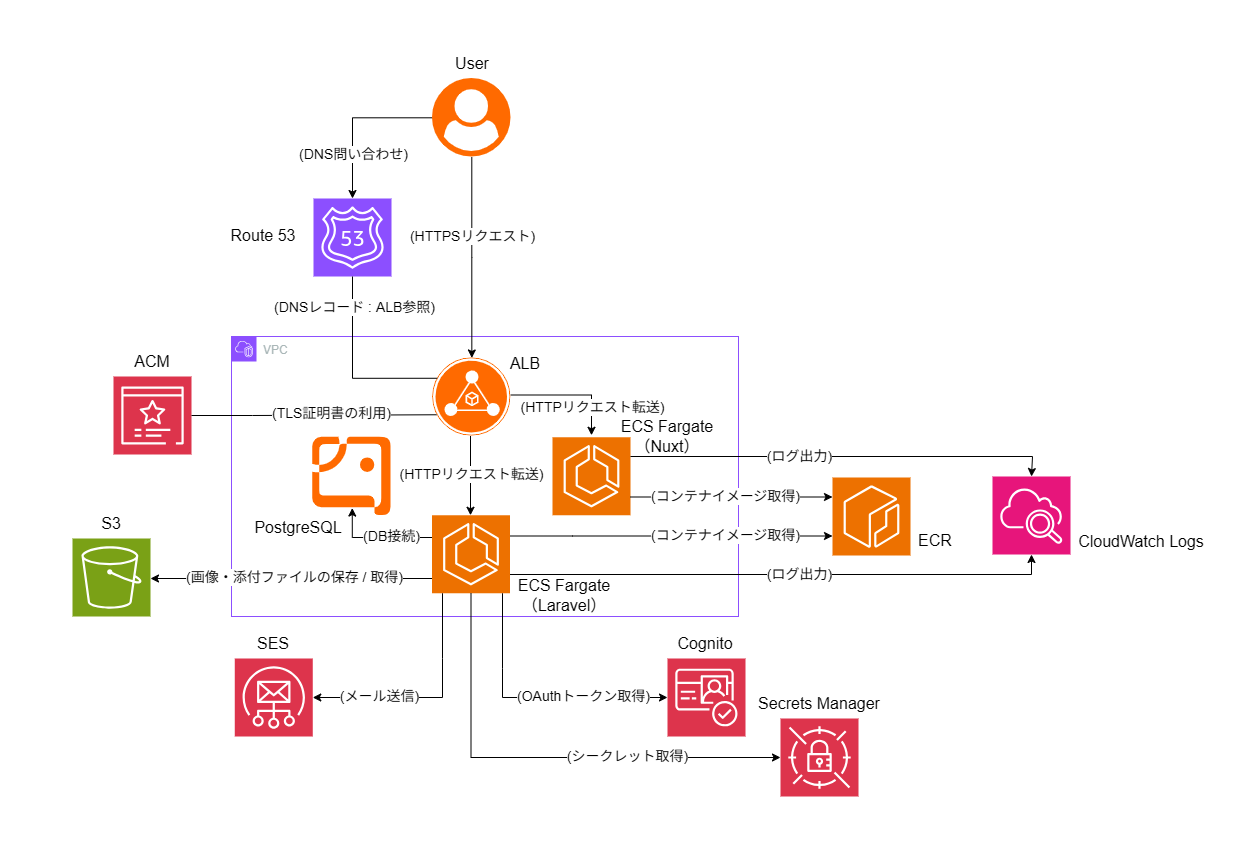
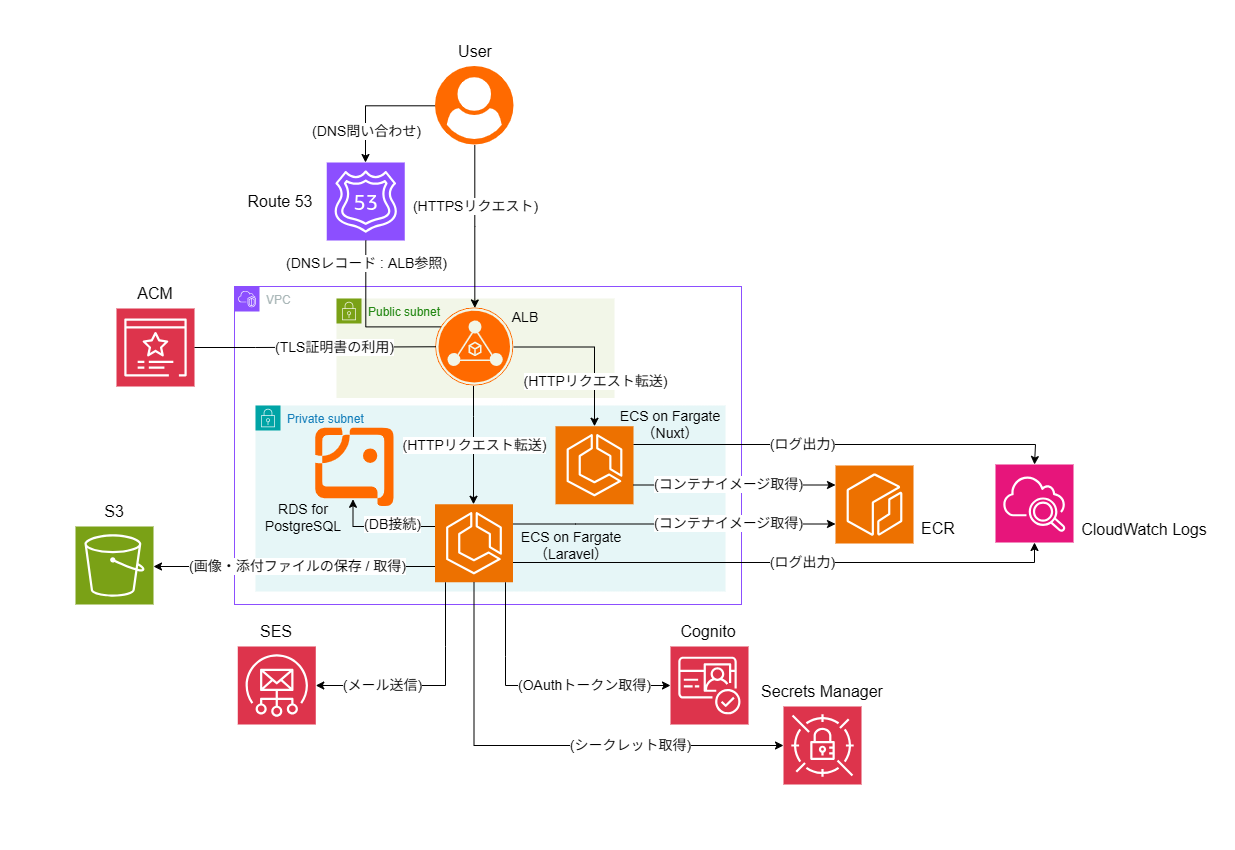
最終版

Changed region(s): [[0.0308, 0.0612, 0.9846, 0.9482]]

diff --git a/app/data/site.ts b/app/data/site.ts
@@ -10,7 +10,7 @@ export type DesignPoint = {
 
 export type SecurityRow = {
   category: string
-  implementation: string
+  implementations: string[]
 }
 
 export type StackRow = {
@@ -37,13 +37,19 @@ export type ExperienceGroup = {
 
 export const basicInfoRows: InfoRow[] = [
   { label: '名前', value: 'Ninomiya' },
-  { label: '志望職種', value: 'クラウド領域のITコンサル' },
-  { label: '目指すキャリア', value: 'クラウド技術と業務理解の両面から顧客の課題を捉え、要件整理・技術選定・設計・導入まで一貫して支援できるITコンサルタントを目指しています。' },
+  { label: '志望職種', value: 'クラウド領域の IT コンサル' },
+  {
+    label:
+      '目指すキャリア',
+    value:
+      `クラウド技術と業務理解の両面から顧客の課題を捉え、
+      要件整理・技術選定・設計・導入まで一貫して支援できる IT コンサルタントを目指しています。`
+  },
   { label: '学習中の資格', value: 'AWS Certified Solutions Architect - Professional（SAP）' },
 ]
 
 export const introductionParagraphs: string[] = [
-  'Laravel・Vue.js・Nuxt を用いた Web アプリケーション開発に携わってきました。業務では、AWS サービスを活用した非同期処理やAI機能、リアルタイム通知などの実装を経験しています。また、個人開発では AWS 環境の構築からアプリケーションのデプロイまで一貫して取り組み、Terraform によるインフラの IaC 化や GitHub Actions を用いた CI / CD パイプラインの構築も行いました。',
+  'Laravel・Vue.js・Nuxt を用いた Web アプリケーション開発に携わってきました。業務では、AWS サービスを活用した非同期処理や AI 機能、リアルタイム通知などの実装を経験しています。また、個人開発では AWS 環境の構築からアプリケーションのデプロイまで一貫して取り組み、Terraform によるインフラの IaC 化や GitHub Actions を用いた CI / CD パイプラインの構築も行いました。',
   'こうした経験に加え、AWS 認定資格の学習を通じて、システムの要件に応じたクラウドサービスの選定やアーキテクチャ設計に関心を深め、クラウド技術を専門領域にしたいと考えるようになりました。',
   '今後は、クラウド技術に関する専門性を高めるとともに、顧客の課題や要件を理解し、技術的な観点から最適な解決策を提案・実現できる IT コンサルタントを目指しています。',
 ]
@@ -133,11 +139,11 @@ export const projects: Project[] = [
     name: 'WorkMana',
     summary: [
       'WorkManaは、チーム単位でタスクや資料を一元管理するWebアプリケーションです。',
-      'ボード形式とWBS形式を切り替えながら、タスクの進捗を管理できます。',
+      'Board 形式と WBS 形式を切り替えながら、タスクの進捗を管理できます。',
     ],
     overview: [
       'WorkManaは、スペース単位でタスクや資料を一元管理するWebアプリケーションです。ユーザーが作成した組織内にスペースを設けて業務を管理します。',
-      'スペースでは、タスクをカンバン形式のボードと、階層構造で表示するWBSの２つのビューで扱えます。WBSではガントチャートも表示でき、タスクの構造とスケジュールを確認できます。タスクの情報は両方のビューで共有されるため、表示を切り替えても同じタスクを編集できます。',
+      'スペースでは、タスクをカンバン形式の Board と、階層構造で表示する WBS の２つのビューで扱えます。WBS ではガントチャートも表示でき、タスクの構造とスケジュールを確認できます。タスクの情報は両方のビューで共有されるため、表示を切り替えても同じタスクを編集できます。',
       'また、タスクには担当者、ラベル、期間、工数、進捗率などを設定でき、チェックリストやファイル添付にも対応しています。スペースには資料を作成でき、業務管理に必要な情報をまとめて管理できます。',
       '組織内では管理者と一般ユーザーの役割を設け、組織設定やユーザー管理などの操作を管理者に限定しています。さらに、同じスペースを開いているユーザーの画面にタスクや資料の変更をリアルタイムに反映する仕組みや、担当者追加や期間変更などを知らせる通知機能を備えています。',
     ],
@@ -222,7 +228,7 @@ export const projects: Project[] = [
     stackRows: [
       { category: 'フロントエンド', technologies: 'Nuxt 4 / Vue 3 / TypeScript / SCSS' },
       { category: 'バックエンド', technologies: 'Laravel 13 / PHP 8.3' },
-      { category: 'データベース', technologies: 'PostgreSQL / Amazon RDS for PostgreSQL' },
+      { category: 'データベース', technologies: 'Amazon RDS for PostgreSQL' },
       { category: '認証', technologies: 'Amazon Cognito' },
       { category: 'リアルタイム同期', technologies: 'Laravel Reverb / Laravel Echo / Pusher JS' },
       { category: '実行環境', technologies: 'Node.js 22 / nginx / PHP-FPM' },
@@ -261,9 +267,9 @@ export const projects: Project[] = [
           {
             content:
               `ALB で HTTPS 通信を受け付け、
-              HTTP 通信を HTTPS にリダイレクト`,
+              HTTP 通信は HTTPS にリダイレクト`,
             reason: 
-              `通信を暗号化することで
+              `通信を暗号化して
               安全にアプリケーションへアクセスできるようにするため`,
           },
         ],
@@ -305,8 +311,8 @@ export const projects: Project[] = [
           {
             content: `S3 による画像・添付ファイルの管理`,
             reason: 
-              `アプリケーションのデータベースとファイルを
-              分離して管理するため`,
+              `画像および添付ファイルを
+              データベースとは分離して管理するため`,
           },
         ],
       },
@@ -331,7 +337,9 @@ export const projects: Project[] = [
         item: 'セキュリティ',
         rows: [
           {
-            content: 'HTTPS 通信による通信経路の暗号化',
+            content: 
+              `HTTPS 通信による
+              インターネット経由の通信暗号化`,
             reason: '通信内容の盗聴や改ざんを防ぐため',
           },
           {
@@ -339,8 +347,8 @@ export const projects: Project[] = [
               `IAM ロールによる
               AWS リソースへのアクセス制御`,
             reason: 
-              `AWS リソースへのアクセス権限を
-              必要最小限に制限するため`,
+              `必要な AWS リソースへのアクセス権限を付与して
+              認証情報を直接管理する必要をなくすため`,
           },
           {
             content: `Secrets Manager によるシークレット管理`,
@@ -361,11 +369,9 @@ export const projects: Project[] = [
         rows: [
           {
             content: 
-              `Laravel Reverb による
-              WebSocket 通信`,
+              `Laravel Reverb による WebSocket 通信`,
             reason: 
-              `ユーザー間でタスクなどの更新情報を
-              リアルタイムに共有するため`,
+              `ユーザー間で更新情報をリアルタイムに共有するため`,
           },
         ],
       },
@@ -410,7 +416,7 @@ export const projects: Project[] = [
           {
             content: 'S3 のバージョニング',
             reason: 
-              `ファイルの上書き・削除が発生した場合に
+              `画像および添付ファイルの上書き・削除が発生した場合に
               過去のバージョンを復元できるようにするため`,
           },
         ],
@@ -419,34 +425,38 @@ export const projects: Project[] = [
     securityRows: [
       {
         category: '認証・セッション管理',
-        implementation: 
-          `● Amazon Cognito によるユーザー認証
-          ● Authorization Code Flow with PKCE による認証フローの保護
-          ● ID トークンの署名・クレーム検証
-          ● HttpOnly Cookie を利用したセッション管理
-          ● ログアウト時のトークン・セッション無効化`
+        implementations: [
+          'Amazon Cognito によるユーザー認証',
+          'Authorization Code Flow with PKCE による認証フローの保護',
+          'ID トークンの署名・クレーム検証',
+          'HttpOnly Cookie を利用したセッション管理',
+          'ログアウト時のトークン・セッション無効化',
+        ],
       },
       {
         category: '認可・マルチテナント分離',
-        implementation: 
-          `● 組織への所属確認に基づくアクセス制御
-          ● 組織およびスペース単位でのリソースアクセス制御
-          ● 担当者・ラベル・親子タスクなどの関連データの整合性検証
-          ● 管理操作に対する権限確認`
+        implementations: [
+          '組織への所属確認に基づくアクセス制御',
+          '組織およびスペース単位でのリソースアクセス制御',
+          '担当者・ラベル・親子タスクなどの関連データの整合性検証',
+          '管理操作に対する権限確認',
+        ],
       },
       {
         category: '通信・本番設定の保護',
-        implementation: 
-          `● HTTPS・Cookie・CORS などの本番環境向け設定の検証
-          ● 本番環境での認証バイパス無効化チェック`
+        implementations: [
+          'HTTPS・Cookie・CORS などの本番環境向け設定の検証',
+          '本番環境での認証バイパス無効化チェック',
+        ],
       },
       {
         category: 'ファイル保護',
-        implementation:
-          `● Amazon S3 でのファイル保存
-          ● アクセス権限の検証
-          ● アップロード時のファイルサイズ・拡張子の制限
-          ● ダウンロード時のレスポンスヘッダーによる保護`
+        implementations: [
+          'Amazon S3 でのファイル保存',
+          'アクセス権限の検証',
+          'アップロード時のファイルサイズ・拡張子の制限',
+          'ダウンロード時のレスポンスヘッダーによる保護',
+        ],
       },
     ],
     developmentEfforts: [

diff --git a/app/pages/projects/[slug].vue b/app/pages/projects/[slug].vue
@@ -121,7 +121,10 @@ useSeoMeta({
             </tr>
           </thead>
           <tbody>
-            <template v-for="point in project.designPoints" :key="point.item">
+            <template
+              v-for="(point, pointIndex) in project.designPoints"
+              :key="point.item"
+            >
               <tr
                 v-for="(row, rowIndex) in point.rows"
                 :key="`${point.item}-${rowIndex}`"
@@ -129,6 +132,7 @@ useSeoMeta({
                 <th
                   v-if="rowIndex === 0"
                   class="feature-name"
+                  :class="{ 'is-last-group': pointIndex === project.designPoints.length - 1 }"
                   scope="rowgroup"
                   :rowspan="point.rows.length"
                 >
@@ -142,21 +146,44 @@ useSeoMeta({
         </table>
       </div>
       <div class="subsection">
-        <h3 id="design-points-heading">セキュリティ設計</h3>
-        <table class="stack-table">
-        <thead>
-          <tr>
-            <th scope="col">分類</th>
-            <th scope="col">内容</th>
-          </tr>
-        </thead>
-        <tbody>
-          <tr v-for="row in project.securityRows" :key="row.category">
-            <th scope="row">{{ row.category }}</th>
-            <td>{{ row.implementation }}</td>
-          </tr>
-        </tbody>
-      </table>
+        <h3 id="security-design-heading">セキュリティ設計</h3>
+        <table
+          class="stack-table security-design-table"
+          aria-labelledby="security-design-heading"
+        >
+          <colgroup>
+            <col class="category-col" />
+            <col />
+          </colgroup>
+          <thead>
+            <tr>
+              <th scope="col">分類</th>
+              <th scope="col">内容</th>
+            </tr>
+          </thead>
+          <tbody>
+            <template
+              v-for="(group, groupIndex) in project.securityRows"
+              :key="group.category"
+            >
+              <tr
+                v-for="(implementation, index) in group.implementations"
+                :key="`${group.category}-${index}`"
+              >
+                <th
+                  v-if="index === 0"
+                  class="feature-name"
+                  :class="{ 'is-last-group': groupIndex === project.securityRows.length - 1 }"
+                  scope="rowgroup"
+                  :rowspan="group.implementations.length"
+                >
+                  {{ group.category }}
+                </th>
+                <td>{{ implementation }}</td>
+              </tr>
+            </template>
+          </tbody>
+        </table>
       </div>
     </section>
 

diff --git a/app/assets/css/main.css b/app/assets/css/main.css
@@ -425,6 +425,19 @@ p {
   white-space: pre-line;
 }
 
+.stack-table tbody tr:last-child th,
+.stack-table tbody tr:last-child td {
+  border-bottom: 0;
+}
+
+.stack-table tbody th.is-last-group{
+  border-bottom: 0;
+}
+
+.stack-table.design-points-table tbody th.is-last-group {
+  border-bottom: 0;
+}
+
 .stack-table thead th {
   background: #dceeff;
   font-size: 1rem;
@@ -502,7 +515,6 @@ p {
 .career-table td:nth-child(-n + 2) {
   white-space: nowrap;
 }
-
 
 .repo-link {
   font-weight: 600;
